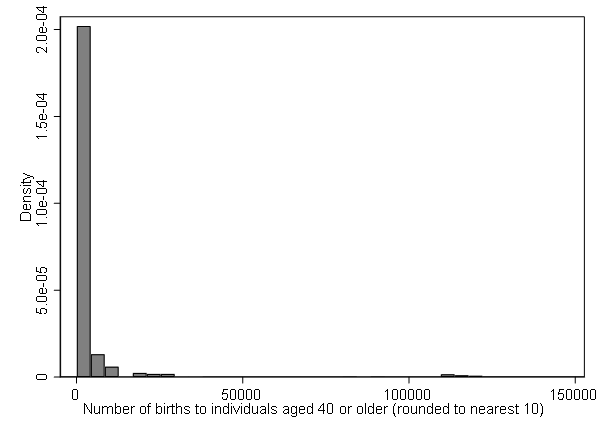
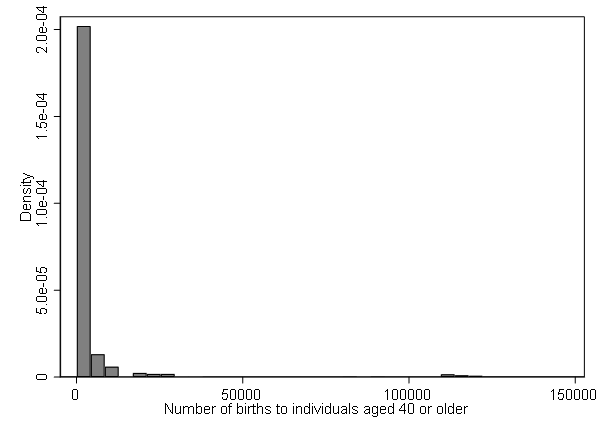
Add files via upload

Changed region(s): [[0.15, 0.9243, 0.9, 0.9541]]

diff --git a/Files/birthslt15.html b/Files/birthslt15.html
@@ -18,7 +18,7 @@
 <body>
 <p><link rel="stylesheet" href="codebook_page.css"><br />
 <strong>Variable Name:</strong> birthslt15<br />
-<strong>Variable Label:</strong> Number of births to individuals aged 14 or younger (rounded to nearest 10)<br />
+<strong>Variable Label:</strong> Number of births to individuals aged 14 or younger<br />
 <em>Notes:</em> .b = suppressed (numerator &lt; 10)</p>
 <table>
 <thead>

diff --git a/Files/birthslt20.html b/Files/birthslt20.html
@@ -18,7 +18,7 @@
 <body>
 <p><link rel="stylesheet" href="codebook_page.css"><br />
 <strong>Variable Name:</strong> birthslt20<br />
-<strong>Variable Label:</strong> Number of births to individuals aged younger than 20 (rounded to nearest 10)<br />
+<strong>Variable Label:</strong> Number of births to individuals aged younger than 20<br />
 <em>Notes:</em></p>
 <table>
 <thead>

diff --git a/Files/births40plus.html b/Files/births40plus.html
@@ -18,7 +18,7 @@
 <body>
 <p><link rel="stylesheet" href="codebook_page.css"><br />
 <strong>Variable Name:</strong> births40plus<br />
-<strong>Variable Label:</strong> Number of births to individuals aged 40 or older (rounded to nearest 10)<br />
+<strong>Variable Label:</strong> Number of births to individuals aged 40 or older<br />
 <em>Notes:</em></p>
 <table>
 <thead>

diff --git a/Files/births1517.html b/Files/births1517.html
@@ -18,7 +18,7 @@
 <body>
 <p><link rel="stylesheet" href="codebook_page.css"><br />
 <strong>Variable Name:</strong> births1517<br />
-<strong>Variable Label:</strong> Number of births to individuals aged 15-17 (rounded to nearest 10)<br />
+<strong>Variable Label:</strong> Number of births to individuals aged 15-17<br />
 <em>Notes:</em></p>
 <table>
 <thead>

diff --git a/Files/births1519.html b/Files/births1519.html
@@ -18,7 +18,7 @@
 <body>
 <p><link rel="stylesheet" href="codebook_page.css"><br />
 <strong>Variable Name:</strong> births1519<br />
-<strong>Variable Label:</strong> Number of births to individuals aged 15-19 (rounded to nearest 10)<br />
+<strong>Variable Label:</strong> Number of births to individuals aged 15-19<br />
 <em>Notes:</em></p>
 <table>
 <thead>

diff --git a/Files/births1819.html b/Files/births1819.html
@@ -18,7 +18,7 @@
 <body>
 <p><link rel="stylesheet" href="codebook_page.css"><br />
 <strong>Variable Name:</strong> births1819<br />
-<strong>Variable Label:</strong> Number of births to individuals aged 18-19 (rounded to nearest 10)<br />
+<strong>Variable Label:</strong> Number of births to individuals aged 18-19<br />
 <em>Notes:</em></p>
 <table>
 <thead>

diff --git a/Files/births2024.html b/Files/births2024.html
@@ -18,7 +18,7 @@
 <body>
 <p><link rel="stylesheet" href="codebook_page.css"><br />
 <strong>Variable Name:</strong> births2024<br />
-<strong>Variable Label:</strong> Number of births to individuals aged 20-24 (rounded to nearest 10)<br />
+<strong>Variable Label:</strong> Number of births to individuals aged 20-24<br />
 <em>Notes:</em></p>
 <table>
 <thead>

diff --git a/Files/births2529.html b/Files/births2529.html
@@ -18,7 +18,7 @@
 <body>
 <p><link rel="stylesheet" href="codebook_page.css"><br />
 <strong>Variable Name:</strong> births2529<br />
-<strong>Variable Label:</strong> Number of births to individuals aged 25-29 (rounded to nearest 10)<br />
+<strong>Variable Label:</strong> Number of births to individuals aged 25-29<br />
 <em>Notes:</em></p>
 <table>
 <thead>

diff --git a/Files/births3034.html b/Files/births3034.html
@@ -18,7 +18,7 @@
 <body>
 <p><link rel="stylesheet" href="codebook_page.css"><br />
 <strong>Variable Name:</strong> births3034<br />
-<strong>Variable Label:</strong> Number of births to individuals aged 30-34 (rounded to nearest 10)<br />
+<strong>Variable Label:</strong> Number of births to individuals aged 30-34<br />
 <em>Notes:</em></p>
 <table>
 <thead>

diff --git a/Files/births3539.html b/Files/births3539.html
@@ -18,7 +18,7 @@
 <body>
 <p><link rel="stylesheet" href="codebook_page.css"><br />
 <strong>Variable Name:</strong> births3539<br />
-<strong>Variable Label:</strong> Number of births to individuals aged 35-39 (rounded to nearest 10)<br />
+<strong>Variable Label:</strong> Number of births to individuals aged 35-39<br />
 <em>Notes:</em></p>
 <table>
 <thead>

diff --git a/Files/birthstotal.html b/Files/birthstotal.html
@@ -18,7 +18,7 @@
 <body>
 <p><link rel="stylesheet" href="codebook_page.css"><br />
 <strong>Variable Name:</strong> birthstotal<br />
-<strong>Variable Label:</strong> Total number of births (rounded to nearest 10)<br />
+<strong>Variable Label:</strong> Total number of births<br />
 <em>Notes:</em></p>
 <table>
 <thead>
